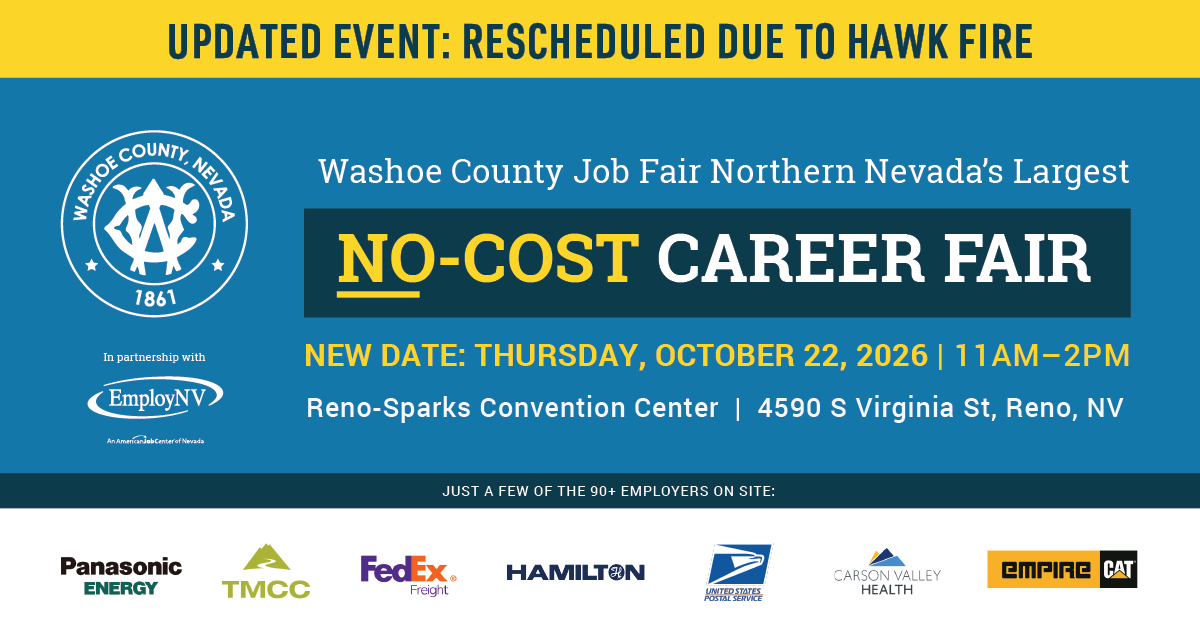
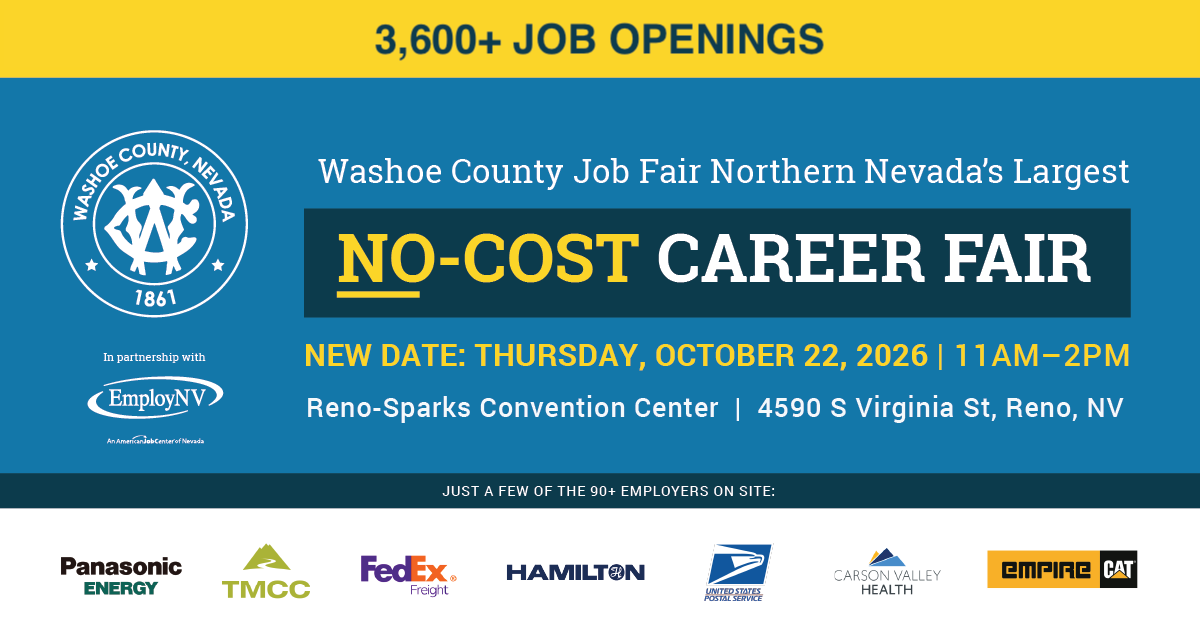
Update job count copy and OG

Changed region(s): [[0.1233, 0.0302, 0.8633, 0.0905]]

diff --git a/components/Hero.tsx b/components/Hero.tsx
@@ -7,7 +7,7 @@ export default function Hero() {
     <section className="relative overflow-hidden bg-brand-blue px-6 pb-15 hero-md:px-5 3xl:px-16! min-h-140">
       <div className="relative z-20 -mx-6 hero-md:-mx-5 3xl:-mx-16! flex flex-col items-center justify-center gap-4 bg-brand-yellow px-4 py-2 text-center sm:px-8">
         <h2 className="font-slab text-2xl font-extrabold uppercase leading-tight text-brand-dark sm:text-3xl lg:text-4xl">
-          Updated Event: Rescheduled due to Hawk Fire
+          3,600+ job openings!
         </h2>
       </div>
       <div className="relative pt-0 hero-md:pt-15">

diff --git a/app/layout.tsx b/app/layout.tsx
@@ -20,7 +20,7 @@ const robotoSlab = Roboto_Slab({
 
 const title = "No-Cost Career Fair | Washoe County | Oct 22, 2026";
 const description =
-  "Northern Nevada's largest no-cost career fair. Thursday, October 22, 2026, 11am–2pm at the Reno-Sparks Convention Center. 90+ employers hiring on the spot.";
+  "Northern Nevada's largest no-cost career fair. 3,600+ job openings from 90+ employers hiring on the spot. Thursday, October 22, 2026, 11am–2pm at the Reno-Sparks Convention Center.";
 
 const siteUrl =
   process.env.NEXT_PUBLIC_SITE_URL ?? "https://www.washoecountyjobfair.org";
